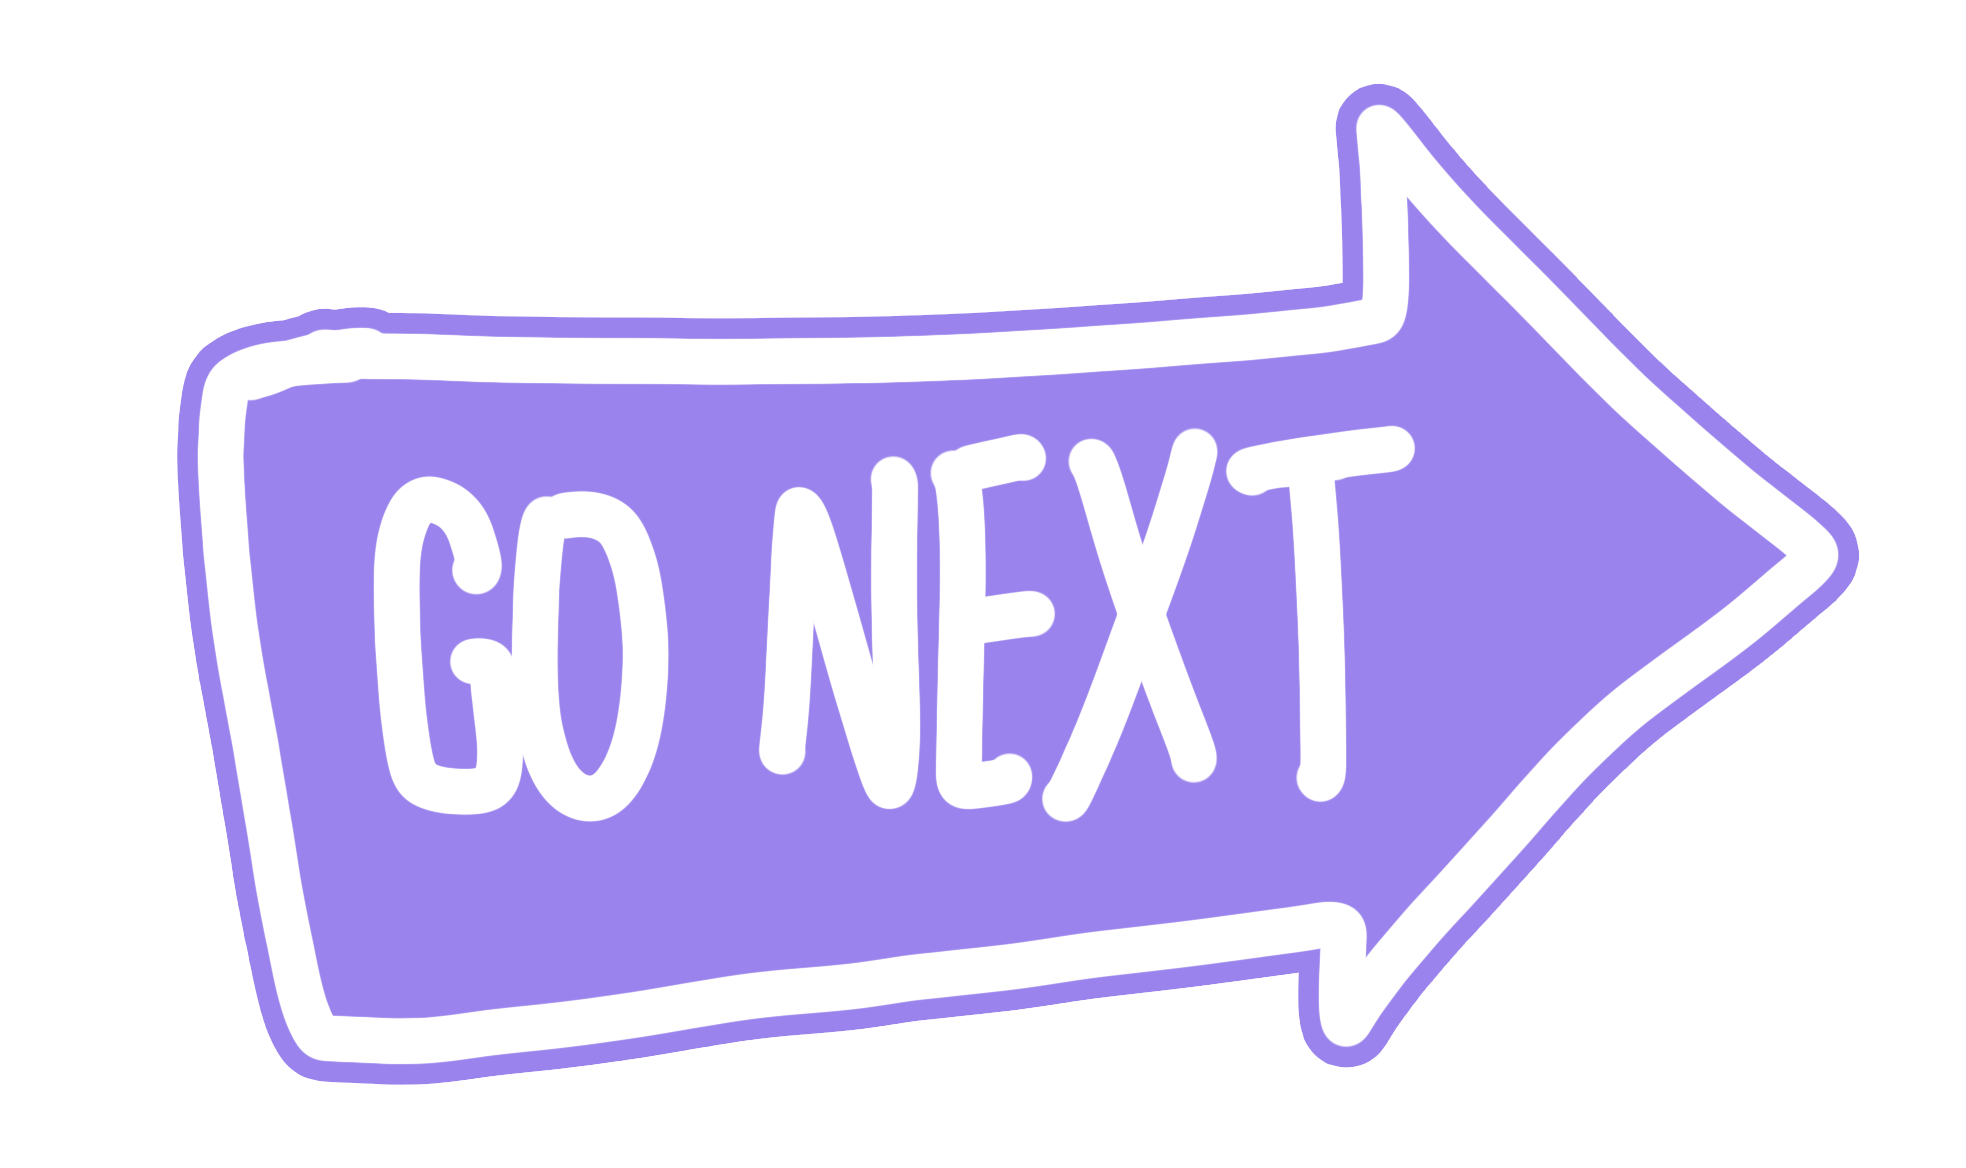
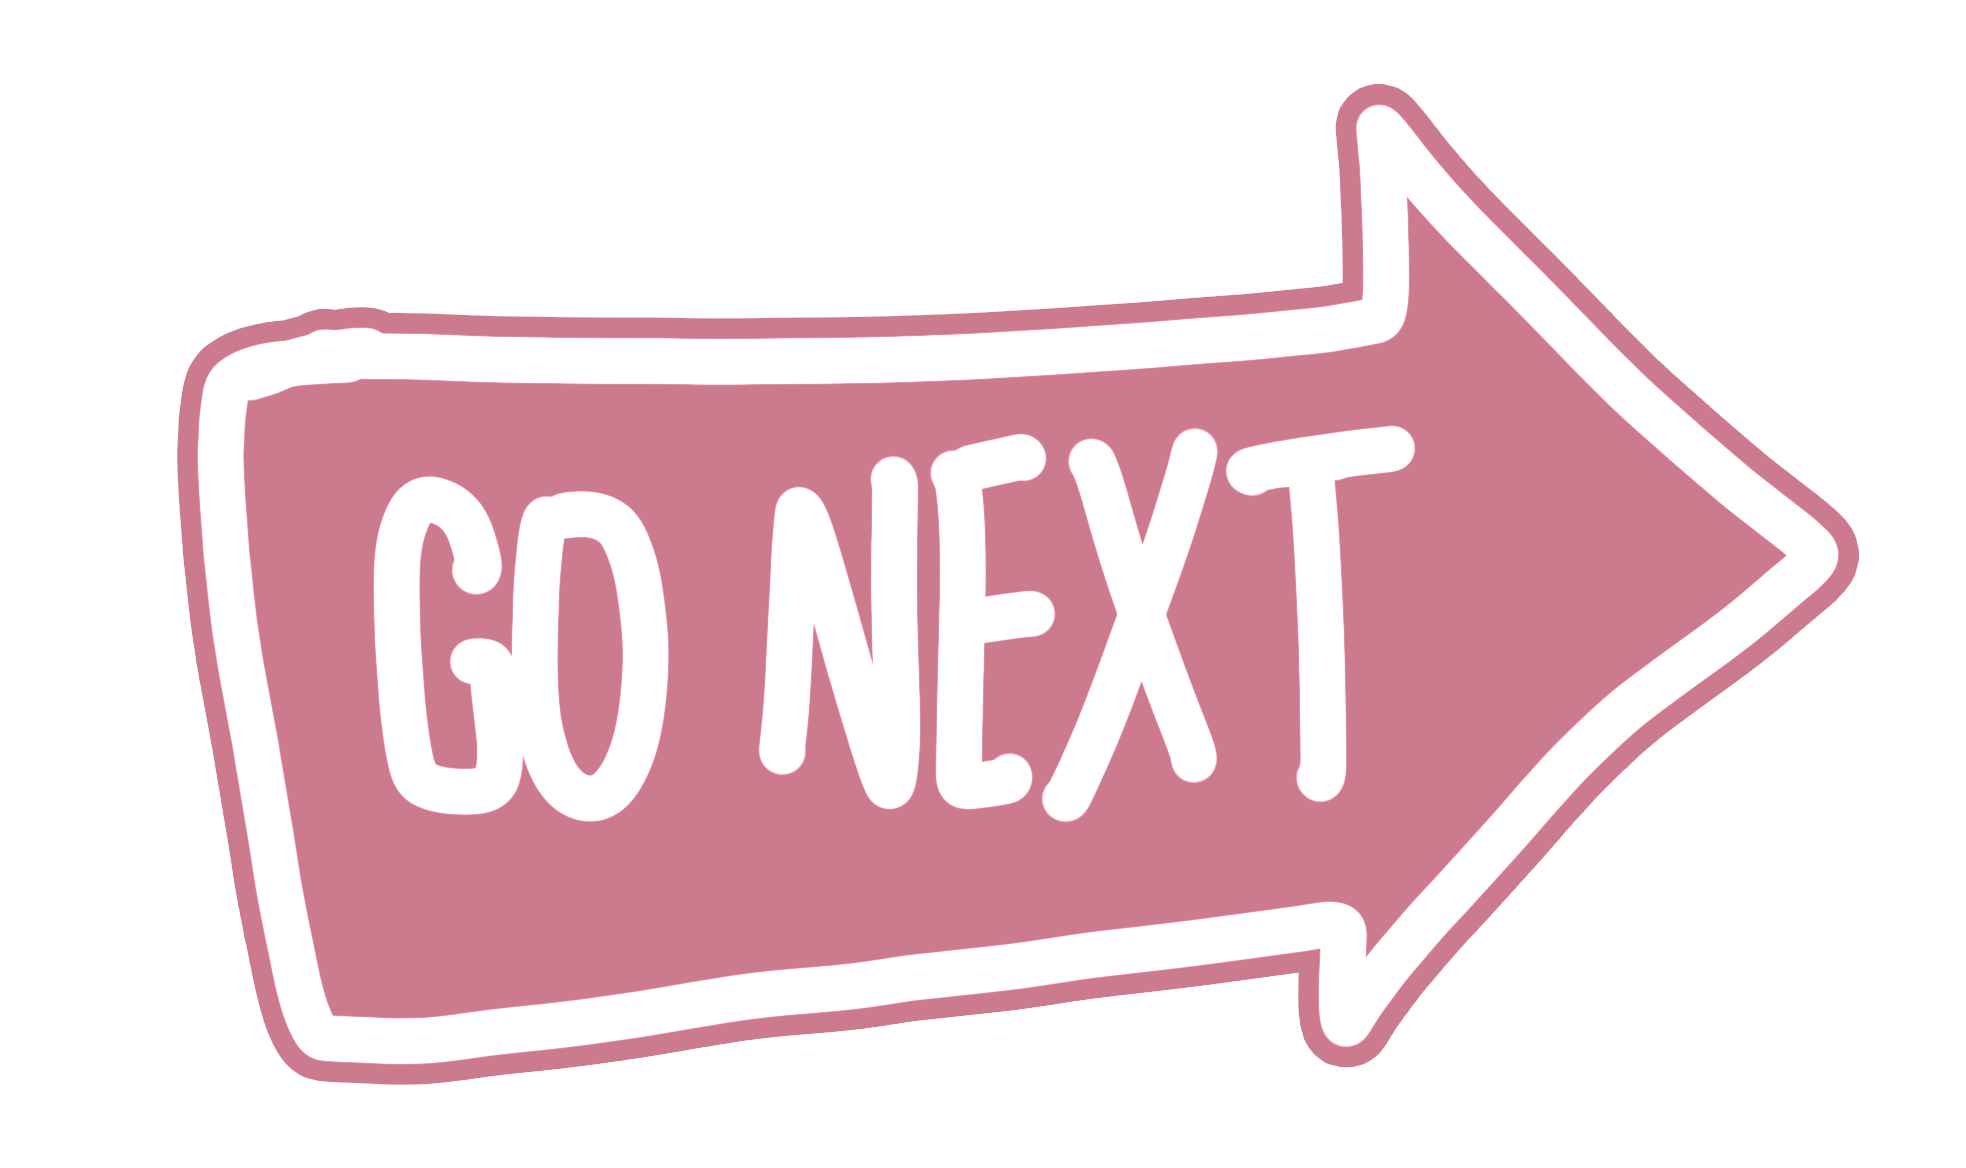
First

diff --git a/finalword.html b/finalword.html
@@ -15,29 +15,26 @@
   <div id="fullpage">
     <div class="section" id="section1"> 
       <div class="content">
-      <img src="assets/img/15.png" alt="0" class="img_2">
+      <img src="assets/img/015.png" alt="0" class="img_3">
       </div>
     </div>
     <div class="section" id="section2">
       <div class="content">
-        <img src="assets/img/16.png" alt="0" class="img_3">
+        <img src="assets/img/016.png" alt="0" class="img_3">
       </div>
     </div>
     <div class="section" id="section2">
       <div class="content">
-        <img src="assets/img/17.png" alt="0" class="img_3">
-        <a class="btn_present" href="https://drive.google.com/drive/folders/1yh7zNcrkcdOItEAVJh_Zf4VCIJlxpEvg?usp=share_link" target="_blank">here's your present</a>
+        <a href="https://drive.google.com/drive/folders/1bZYl3aTkOrgRsOMKclPbaGLH5FZ_OUFW?usp=share_link" target="_blank">
+          <img src="assets/img/018.png" alt="0" class="img_3">
+        </a>
       </div>
     </div>
     <div class="section" id="section2">
       <div class="content">
-        <img src="assets/img/18.png" alt="0" class="img_3">
+        <img src="assets/img/017.png" alt="0" class="img_3">
       </div>
     </div>
-    <div class="section" id="section2">
-      <div class="content">
-        <img src="assets/img/19.png" alt="0" class="img_4">
-      </div>
     </div>
   </div>
 </body>

diff --git a/pageone.html b/pageone.html
@@ -13,40 +13,15 @@
   <script type="text/javascript" src="assets/js/main.js"></script>
 </head>
 <body>
-  <!-- <div id="fullpage">
-    <div class="section container">
-      <div class="content" id="section1">
-        <img src="assets/img/1.png" alt="0" class="title">
-      </div>
-    </div>
-
-    <div class="section container">
-      <div class="content" id="section2">
-        <img src="assets/img/2.png" alt="0" class="img_2">
-      </div>
-    </div>
-
-    <div class="section container">
-      <div class="content" id="section3">
-        <img src="assets/img/2.png" alt="0" class="title">
-      </div>
-    </div>
-  </div> -->
-
   <div id="fullpage">
     <div class="section" id="section1"> 
       <div class="content">
-      <img src="assets/img/1.png" alt="0" class="title">
+      <img src="assets/img/02.png" alt="0" class="img_2">
       </div>
     </div>
     <div class="section" id="section2">
       <div class="content">
-        <img src="assets/img/2.png" alt="0" class="img_2">
-      </div>
-    </div>
-    <div class="section" id="section3">
-      <div class="content">
-        <img src="assets/img/3.png" alt="0" class="img_2">
+        <img src="assets/img/03.png" alt="0" class="img_2">
       </div>
     </div>
     <div class="section" id="section4">

diff --git a/pagethree.html b/pagethree.html
@@ -15,23 +15,33 @@
   <div id="fullpage">
     <div class="section" id="section1"> 
       <div class="content">
-      <img src="assets/img/6.png" alt="0" class="img_2">
+      <img src="assets/img/04.png" alt="0" class="img_2">
       </div>
     </div>
     <div class="section" id="section2">
       <div class="content">
-        <img src="assets/img/7.png" alt="0" class="img_1">
+        <img src="assets/img/05.png" alt="0" class="img_1">
       </div>
     </div>
     <div class="section" id="section3">
       <div class="content">
-        <img src="assets/img/8.png" alt="0" class="img_3">
+        <img src="assets/img/06.png" alt="0" class="img_3">
+      </div>
+    </div>
+    <div class="section" id="section3">
+      <div class="content">
+        <img src="assets/img/07.png" alt="0" class="img_3">
+      </div>
+    </div>
+    <div class="section" id="section3">
+      <div class="content">
+        <img src="assets/img/08.png" alt="0" class="img_2">
       </div>
     </div>
     <div class="section cc" id="section4">
       <div class="content">
         <a href="pagefour.html"">
-          <img src="assets/img/9.png" alt="0" class="img_1">
+          <img src="assets/img/next.png" alt="0" class="img_1">
         </a>
       </div>
     </div>

diff --git a/assets/css/pagefive.css b/assets/css/pagefive.css
@@ -9,8 +9,8 @@ a:link{text-decoration: none}
 body{
   margin: 0;
   padding: 0;
-  transition: background-color 1s ease;
-  background-color: #000;
+  /* transition: background-color 1s ease; */
+  background-color: #dd8b9f;
 }
 
 html{
@@ -52,7 +52,7 @@ html{
   background-color: #F2293A;
 }
 .color-black {
-  background-color: #000;
+  background-color: #dd8b9f;
 }
 .color-white {
   background-color: #ffffff;
@@ -84,7 +84,7 @@ img.img_1{
 }
 
 .bottom{
-  background-color: #9a83ec;
+  background-color: #dd8b9f;
   height: 150px;
   display: flex;
   justify-content: center;
@@ -100,7 +100,7 @@ transition: all .35s;
   width: 0;
   height: 100%;
   overflow: hidden;
-  background: #9a83ec;
+  background: #dd8b9f;
   transition: all .35s;
 }
 

diff --git a/assets/css/main.css b/assets/css/main.css
@@ -9,7 +9,7 @@ a:link{text-decoration: none}
 body{
   margin: 0;
   padding: 0;
-  background-color: #9a83ec;
+  background-color: #dd8b9f;
 }
 
 html{
@@ -32,23 +32,23 @@ html{
   outline: none;
   text-decoration: none;
   cursor: pointer;
-  background-color: white;
-  border: 2px solid white;
+  background-color: #bA4D67;
+  border: 2px solid #bA4D67;
   width: 145px;
   padding: 8px 0;
   border-radius: 999px;
   margin-top: 30px;
   transition: ease-in-out;
   font-size: 22px;
-  color: #9a83ec;
+  color: #f1dde1;
   font-family: Chewy, 'sans-serif';
   transition-duration: .2s;
   text-align: center;
 }
 
 .btn_next:hover{
-  background-color: #9a83ec;
-  color: white;
+  background-color: #dd8b9f;
+  color: #bA4D67;
 }
 
 img.title{

diff --git a/pagefive.html b/pagefive.html
@@ -14,14 +14,14 @@
 <body>
   <div class="panel" data-color="black">
     <div>
-      <img src="assets/img/12.png" alt="0" class="img_1">
+      <img src="assets/img/012.png" alt="0" class="img_2">
     </div>
   </div>
   <div class="panel" data-color="black">
-    <img src="assets/img/13.png" alt="0" class="img_1">
+    <img src="assets/img/013.png" alt="0" class="img_1">
   </div>
-  <div class="panel" data-color="purple">
-    <img src="assets/img/14.png" alt="0" class="img_1">
+  <div class="panel" data-color="black">
+    <img src="assets/img/014.png" alt="0" class="img_1">
   </div>
   <div class="wrapper">
   <a class="bottom" href="finalword.html"><span>click me! :3</span></a>

diff --git a/pagefour.html b/pagefour.html
@@ -15,12 +15,17 @@
   <div id="fullpage">
     <div class="section" id="section1"> 
       <div class="content">
-      <img src="assets/img/010.png" alt="0" class="img_1">
+      <img src="assets/img/09.png" alt="0" class="img_2">
       </div>
     </div>
     <div class="section" id="section2">
       <div class="content">
-        <img src="assets/img/11.png" alt="0" class="img_1">
+        <img src="assets/img/010.png" alt="0" class="img_3">
+      </div>
+    </div>
+    <div class="section" id="section2">
+      <div class="content">
+        <img src="assets/img/011.png" alt="0" class="img_3">
       </div>
     </div>
     <div class="section cc" id="section4">

diff --git a/assets/css/pagethree.css b/assets/css/pagethree.css
@@ -9,7 +9,7 @@ a:link{text-decoration: none}
 body{
   margin: 0;
   padding: 0;
-  background-color: #9a83ec;
+  background-color: rgb(221, 139, 159);
 }
 
 html{
@@ -83,15 +83,15 @@ img.img_3{
 
 .cc{
   background: rgb(154,131,236);
-background: linear-gradient(180deg, rgba(154,131,236,1) 0%, rgba(255,255,255,1) 50%);
+background: linear-gradient(180deg, rgba(221, 139, 159,1) 0%, rgba(255,255,255,1) 50%);
 }
 
 #section2{
-  background-color: #9a83ec;
+  background-color: #dd8b9f;
 }
 
 #section3{
-  background-color: #9a83ec;
+  background-color: #dd8b9f;
 }
 
 #section4{

diff --git a/assets/css/pageone.css b/assets/css/pageone.css
@@ -9,7 +9,7 @@ a:link{text-decoration: none}
 body{
   margin: 0;
   padding: 0;
-  background-color: #9a83ec;
+  background-color: #dd8b9f;
 }
 
 html{
@@ -82,13 +82,13 @@ img.img_3{
 }
 
 #section2{
-  background-color: #b5a6ed;
+  background-color: #dd8b9f;
 }
 
 #section3{
-  background-color: #c8beed;
+  background-color: #dd8b9f;
 }
 
 #section4{
-  background-color: white;
+  background-color: #dd8b9f;
 }

diff --git a/assets/css/pagesix.css b/assets/css/pagesix.css
@@ -9,7 +9,7 @@ a:link{text-decoration: none}
 body{
   margin: 0;
   padding: 0;
-  background-color: #9a83ec;
+  background-color: #dd8b9f;
 }
 
 html{
@@ -102,11 +102,11 @@ img.img_4{
 }
 
 #section2{
-  background-color: #9a83ec;
+  background-color: #dd8b9f;
 }
 
 #section3{
-  background-color: #9a83ec;
+  background-color: #dd8b9f;
 }
 
 #section4{

diff --git a/assets/css/pagefour.css b/assets/css/pagefour.css
@@ -9,7 +9,7 @@ a:link{text-decoration: none}
 body{
   margin: 0;
   padding: 0;
-  background-color: #9a83ec;
+  background-color: #dd8b9f;
 }
 
 html{
@@ -87,11 +87,11 @@ img.img_3{
 }
 
 #section2{
-  background-color: #9a83ec;
+  background-color: #dd8b9f;
 }
 
 #section3{
-  background-color: #9a83ec;
+  background-color: #dd8b9f;
 }
 
 #section4{

diff --git a/assets/css/pagetwo.css b/assets/css/pagetwo.css
@@ -84,7 +84,7 @@ img.img_1{
 }
 
 .bottom{
-  background-color: #9a83ec;
+  background-color: #dd8b9f;
   height: 150px;
   display: flex;
   justify-content: center;
@@ -100,7 +100,7 @@ transition: all .35s;
   width: 0;
   height: 100%;
   overflow: hidden;
-  background: #544780;
+  background: #a76a79;
   transition: all .35s;
 }
 
